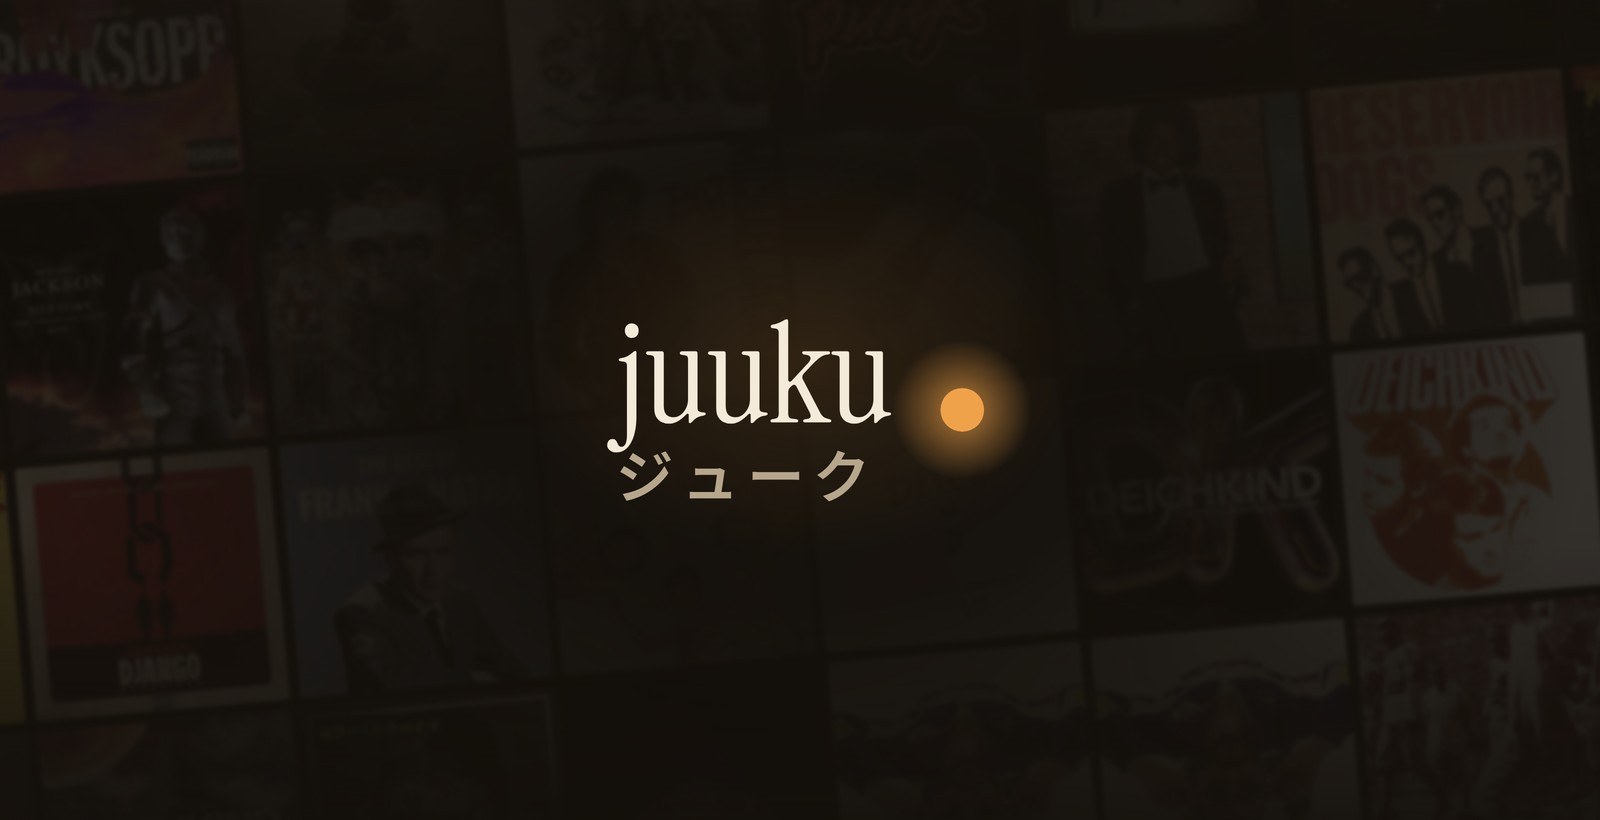
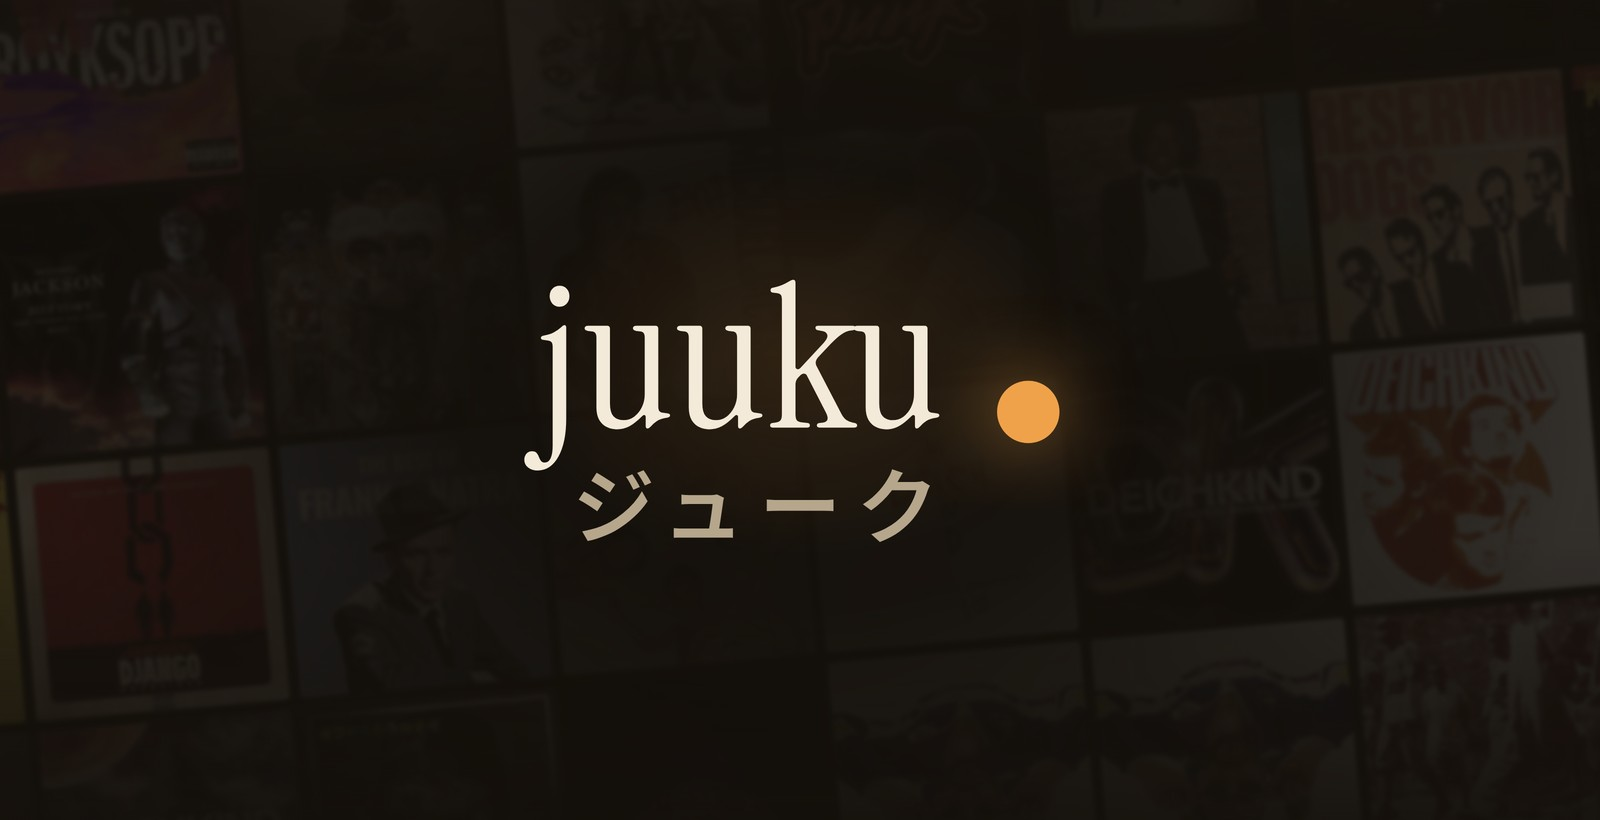
Hero uses the app's own wordmark, not an outline copy
An SVG built from the font files cannot reproduce the browser's kerning, so the
kana drifted a few percent however the anchors were measured. Clone the lockup and
scale it instead, and drop the near-duplicate asset and its script.

Changed region(s): [[0.3438, 0.3354, 0.6875, 0.6707], [0.3438, 0.3354, 0.375, 0.3659], [0.3125, 0.5488, 0.3438, 0.5793]]

diff --git a/docs/ARCHITECTURE.md b/docs/ARCHITECTURE.md
@@ -47,18 +47,12 @@ Navidrome's jukebox is not exposed by its own web UI. The only interface is Subs
 
 ## Brand assets
 
-`public/logo.svg` is the wordmark as outlines — Instrument Serif for `juuku`,
-Noto Sans JP 600 for `ジューク`, and the LED dot — generated from the same font
-files the app uses, so it keeps the app's proportions at any size:
+`public/icon.svg` is the app icon (record, amber label, LED); its PNG set is
+rendered from it at 180/192/512/1024 plus a maskable variant.
 
-```sh
-python3 scripts/build-logo.py     # needs fontTools; rewrites public/logo.svg
-```
-
-The sizes and baselines at the top of that script are the ones measured from the
-running app; change those together with the CSS. The kana is self-hosted as a
-2.3 KB subset (`public/fonts/noto-sans-jp-kana.woff2`, OFL) because system
-fallbacks gave a different face on every device.
-
-`public/icon.svg` is the app icon (record + label + LED); its PNG set is rendered
-from it at 180/192/512/1024 plus a maskable variant.
+The wordmark itself is CSS, not an image: Instrument Serif for `juuku`, a 2.3 KB
+self-hosted Noto Sans JP subset for `ジューク` (`public/fonts/noto-sans-jp-kana.woff2`,
+OFL, because system fallbacks gave a different face on every device), and the LED
+dot. Anything that needs it bigger — the README hero — clones that markup and
+scales it with a transform, rather than redrawing it: an outline export cannot
+reproduce the browser's kerning and drifted by a few percent on the kana.

diff --git a/docs/CHANGELOG.md b/docs/CHANGELOG.md
@@ -4,7 +4,7 @@ Newest first. Tags: **Feature**, **Fix**, **Break**.
 
 ## 2026-10-17
 
-- **Change** — README hero: no tagline, a smaller lockup, and the logo asset now has a symmetric box so centring it centres the ink (measured: ink centre 399/400 and 204.5/205).
+- **Change** — README hero: no tagline, smaller, and the lockup is now the app's own wordmark scaled with a transform instead of a generated SVG. The outline export could not reproduce the browser's kerning, so the kana sat a few percent off no matter how the anchors were measured; `public/logo.svg` and its build script are gone rather than left as a near-duplicate that drifts.
 - **Fix** — `Jukebox is admin only (code 50)` was being reported as "jukebox mode off". The two cases are now separate messages, and `docs/SETUP.md` / `SECURITY.md` say plainly that the Navidrome account has to be an admin, with the CLI commands to create and promote it.
 - **Verified** — jukebox mode on the homelab Pi: `/api/play` queues and starts, position advances, the AMS-24 sits in ALSA `state: RUNNING` under mpv, and skip, pause/resume and `setGain` all answer 200 through the deployed app.
 
